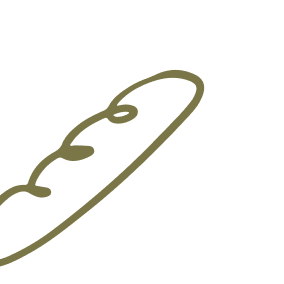
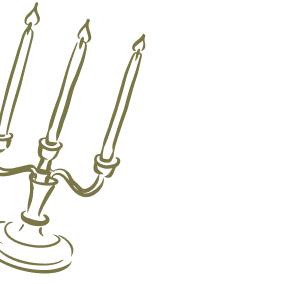
a
a

Changed region(s): [[0.0, 0.0563, 0.7324, 0.9859], [0.0, 0.0, 0.1408, 0.5352]]

diff --git a/index.html b/index.html
@@ -49,7 +49,7 @@
     </div>
         <div class="audiodiv">
             <audio id="myAudio" preload="auto">
-            <source src="./allyouneed.mp3" type="audio/mpeg">
+            <source src="./loveisintheair.mp3" type="audio/mpeg">
             </audio>
             <div id="playPauseBtn" class="play">
                 <img src="./img/notamusical.png" alt="Icono de música">
@@ -96,7 +96,7 @@
     -->
     <div >
          <h3>Fiesta</h3>
-        <p data-aos="fade-up">Domingo 16 de enero <br> XX: XX Hs - Bodega Humberto Canale.</p>
+        <p data-aos="fade-up">Sábado 16 de enero <br> 19:30 Hs - Bodega Humberto Canale <br>Gral. Roca - Río Negro</p>
         <a data-aos="fade-up" class="boton" href="https://www.google.com/maps/dir//Bodega+Humberto+Canale,+Chacra+186,+Gral.+Roca,+R%C3%ADo+Negro/@-39.0687096,-67.6409601,17z/data=!4m17!1m7!3m6!1s0x960a1d8ca2172ac3:0xa021719cb4868af0!2sBodega+Humberto+Canale!8m2!3d-39.0687096!4d-67.6409601!16s%2Fg%2F11bvt2ggcr!4m8!1m0!1m5!1m1!1s0x960a1d8ca2172ac3:0xa021719cb4868af0!2m2!1d-67.6409498!2d-39.06866!3e0?entry=ttu&g_ep=EgoyMDI2MDYyNC4wIKXMDSoASAFQAw%3D%3D">CÓMO LLEGAR</a>
     </div>
   </div>
@@ -117,32 +117,34 @@
       <div class="iconos">
             <div  class="iconos-block">
                 <img data-aos="fade-up"  src="./img-editable/tulugar.png" alt="icono">
-                <p data-aos="fade-up" > 17:00 Hs <br>Toma tu lugar</p>
+                <p data-aos="fade-up" > 19:30 Hs <br>Recepción</p>
                
             </div>
             <div   class="iconos-block">
                 <img data-aos="fade-up"  src="./img-editable/anillos.png" alt="icono">
-                <p data-aos="fade-up" >17:30 Hs <br> Ceremonia</p>
+                <p data-aos="fade-up" >20:00 Hs <br> Ceremonia</p>
              
             </div>
+            <!--
             <div  class="iconos-block">
                 <img data-aos="fade-up"  src="./img-editable/copas.png" alt="icono">
                 <p data-aos="fade-up">18:30 Hs <br> Brindis</p>
                
             </div>
+            -->
             <div  class="iconos-block">
                 <img data-aos="fade-up"  src="./img-editable/cena.png" alt="icono">
-                <p data-aos="fade-up">19:30 Hs <br> Cena</p>
+                <p data-aos="fade-up">21:00 Hs <br> Cena</p>
                
             </div>
             <div  class="iconos-block">
                 <img data-aos="fade-up"  src="./img-editable/fiesta.png" alt="icono">
-                <p data-aos="fade-up"  >20:30 Hs <br> Fiesta</p>
+                <p data-aos="fade-up"  >23:00 Hs <br> A bailar</p>
               
             </div>
               <div  class="iconos-block">
                 <img data-aos="fade-up"  src="./img-editable/vueltaacasa.png" alt="icono">
-                <p data-aos="fade-up"  >02:00 Hs <br>Fin de fiesta</p>
+                <p data-aos="fade-up"  >04:30 Hs <br>Fin de fiesta</p>
                
             </div>
         </div>
@@ -153,7 +155,7 @@
         <div data-aos="fade-up"  class="accordion-item">
             <button class="accordion-header">¿CÓMO ME VISTO?</button>
             <div class="accordion-content">
-                <p>NUESTRA BODA SERÁ AL AIRE LIBRE, ENTRE VIÑEDOS. LOS INVITAMOS A ACOMPAÑARNOS CON UN ESTILO ELEGANTE Y CÓMODO.🎨
+                <p>NUESTRA BODA SERÁ AL AIRE LIBRE, ENTRE VIÑEDOS. LOS INVITAMOS A ACOMPAÑARNOS CON UN ESTILO ELEGANTE Y CÓMODO.🍇🌿
                 </p> <br>
             </div>
         </div>
@@ -163,8 +165,7 @@
         <div data-aos="fade-up"  class="accordion-item">
             <button class="accordion-header">¿QUÉ LES REGALO?</button>
             <div class="accordion-content">
-                <p>EL MEJOR REGALO ES QUE ESTÉS CON NOSOTROS 💕
-                PERO SI QUERÉS SUMAR UN MIMO A ESTA NUEVA ETAPA, PODÉS VER NUESTRA MESA DE REGALOS ACÁ:
+                <p>LO MÁS IMPORTANTE PARA NOSOTROS ES QUE ESTÉS PRESENTE. ♥️ SI ADEMÁS QUERÉS HACERNOS UN REGALO, PODÉS HACERLO ACÁ:
 
                 </p>
                 <div class="gift-block">
@@ -177,46 +178,37 @@
                     </div>
                     <br>
                     
-                    <p>TITULAR DE LA CUENTA: JOAQUIN NICOLAS URDIALES PEALVA - BANCO SANTANDER</p>
+                    <p>TITULAR DE LA CUENTA: JOAQUÍN NICOLÁS URDIALES PEALVA - BANCO SANTANDER</p>
                     <br>
                 </div>
                  <br>
             </div>
         </div>
 <div data-aos="fade-up"  class="accordion-item">
-            <button class="accordion-header">¿QUÉ RECORRER?</button>
+            <button class="accordion-header">HOSPEDAJE + TRASLADO A LA BODEGA</button>
             <div class="accordion-content">
-                <p>SABEMOS QUE MUCHOS VIAJAN PARA ACOMPAÑARNOS, POR ESO TE DEJAMOS ALGUNAS OPCIONES DE ALOJAMIENTO CERCA DE LA ESTANCIA.SABEMOS QUE MUCHOS VIAJAN PARA ACOMPAÑARNOS, POR ESO TE DEJAMOS ALGUNAS OPCIONES DE ALOJAMIENTO CERCA DE LA BODEGA.
+                <p>SABEMOS QUE MUCHOS VIAJAN PARA ACOMPAÑARNOS, POR ESO TE DEJAMOS ALGUNAS SUGERENCIAS DE ALOJAMIENTOS Y EL TELÉFONO DE NUESTRA WEDDING PLANNER SI NECESITAS AYUDA CON LOS TRASLADOS A LA BODEGA.
                 </p> <br>
-                <a data-aos="fade-up" class="boton2" href="https://drive.google.com/file/d/16ozr1lcGev_FQubdc56VjcyUovR5VGwK/view?usp=sharing">VER MÁS</a>
+                <a data-aos="fade-up" class="boton2" href="https://drive.google.com/file/d/1IIvRVDgooJeS7SxDWkkbio443T5HxP_G/view?usp=drive_link">VER MÁS</a>
                 <br><br>
             </div>
         </div>
         <div data-aos="fade-up"  class="accordion-item">
             <button class="accordion-header">¿PUEDO LLEVAR A LOS PEQUES?</button>
             <div class="accordion-content">
-                <p>AMAMOS A LOS NIÑOS… ¡PERO ESTA VEZ PLANEAMOS UNA CELEBRACIÓN PENSADA PARA ADULTOS!
-                    QUEREMOS QUE TODOS PUEDAN RELAJARSE, BRINDAR Y BAILAR SIN INTERRUPCIONES.
-                    GRACIAS POR ENTENDER💖
+                <p>POR UNA NOCHE, LOS GRANDES SE VAN DE FIESTA 🥂 <br> NUESTRA CELEBRACIÓN SERÁ SOLO PARA ADULTOS, ¡GRACIAS POR COMPRENDER! ♥️
                 </p> 
 
             </div>
         </div>
-          <div data-aos="fade-up"  class="accordion-item">
-            <button class="accordion-header">¿DÓNDE ESTACIONO?</button>
-            <div class="accordion-content">
-                <p>¡SABEMOS QUE NO QUERÉS ANDAR DANDO VUELTAS!EN LA BODEGA HAY ESPACIO PARA ESTACIONAR CON COMODIDAD.
-                </p> 
-
-            </div>
-        </div>
+        
         
  
         
         <div data-aos="fade-up"  class="accordion-item">
             <button class="accordion-header">¿QUÉ PASA SI TENGO MÁS DUDAS?</button>
             <div class="accordion-content">
-                <p>CREEMOS QUE TODAS TUS DUDAS ESTÁN RESUELTAS PERO SI TENÉS MÁS CONSULTAS PODÉS DESPEJARLAS CON NUESTRA WEDDING PLANNER : NOMBRE - TELÉFONO  </p> 
+                <p>CREEMOS QUE TODAS TUS DUDAS ESTÁN RESUELTAS PERO SI TENÉS MÁS CONSULTAS PODÉS DESPEJARLAS CON NUESTRA WEDDING PLANNER : TATA HERNÁNDEZ [phone redacted]  </p> 
 
             </div>
         </div>
@@ -236,7 +228,7 @@
 
         <form name="asistenciaform" method="POST" action="https://script.google.com/macros/s/AKfycbzAEeniIwRmx8aNUilgGOpjqlQKZkr-lTdNcHWzI40sIRMXaVIDGe1AzSp8H5TZEKi4/exec" class="formulario">
 
-            <label data-aos="fade-up" class="formtitle">Sólo faltas vos, Venis?</label>
+            <label data-aos="fade-up" class="formtitle">Sólo faltas vos, venís?</label>
 
             <div class="radio-group">
                 <label class="radio-option">
@@ -276,7 +268,7 @@
 
     <div class="end">
         <img data-aos="fade-up" src="./img-editable/manosanillos.png" alt="">
-        <h2 data-aos="fade-up" >Gise & Joaco</h2>
+        <h2 data-aos="fade-up" >Gise y Joaco</h2>
         <p data-aos="fade-down">Te esperamos</p>
     </div>
 
@@ -285,7 +277,7 @@
             <div>
             <img src="./img/logosiquiero.png" alt="icono si quiero">
                 <p>Hecho con &hearts; <br>
-                &#169 <b>Si,quiero!</b> - invitaciones inteligentes.
+                &#169 <b>Si, quiero!</b> - invitaciones inteligentes.
                 <br> Todos los derechos reservados.</p>
             </div>
             

diff --git a/style.css b/style.css
@@ -4,6 +4,7 @@
     --color-2:#f8f3ed;
     --color-3:#7b7648;
     --color-4:#9a9561;
+    --color-5:#cec397;
     --font-principal:'MiFuente';
     --font-secundaria:'MiFuente2';
 }
@@ -290,13 +291,13 @@ nav {
         font-size: 2.1rem;
         padding: 0px 0 0 0;
         margin: 0px 0px 30px 0;
-        max-width: 320px;
+        max-width: 400px;
     }
 
 /*FOTOS*/
 .novios {
     width: 100%;
-    height: 90VH;;
+    height: auto;
     background-image: url(./img-editable/textura1.png);
     background-size: cover;
     background-position: center;
@@ -408,7 +409,7 @@ nav {
     padding: 40PX 0PX;
     width: 100%;
     margin: auto;
-    background-color: var(--color-1);
+    background-color: var(--color-5);
     display: flex;
     flex-direction: column;
     height: auto;
@@ -431,7 +432,7 @@ nav {
     margin: 4PX auto;
     height: auto;
     color: var(--color-2);
-    background-color: var(--color-1);
+    background-color: var(--color-5);
     max-width: 80vw;
     text-align: center;
     font-family: var(--font-principal);
@@ -616,7 +617,7 @@ label .grupo-opciones {
 }
 
 .radio-option input[type="radio"] {
-  accent-color: var(--color-terciario); /* Cambia el color del círculo si el navegador lo soporta */
+  accent-color: var(--color-4); /* Cambia el color del círculo si el navegador lo soporta */
 }
 .etiqueta {
    font-family: var(--font-principal);
@@ -645,11 +646,11 @@ label .grupo-opciones {
 .formulario input:focus,
 .formulario select:focus,
 .formulario textarea:focus {
-    outline: 2px solid var(--color-1);
+    outline: 2px solid var(--color-4);
 }
 
 .formulario input[type="radio"] {
-    accent-color: var(--color-1);
+    accent-color: var(--color-4);
 }
 
 .formulario input:focus::placeholder,
@@ -807,7 +808,7 @@ footer p {
         gap:10px;
     }
     .novios {
-        height: 72vh;
+        height: auto;
     }
 
 